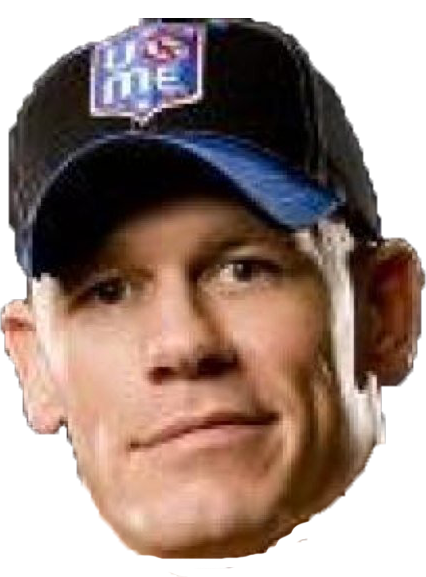
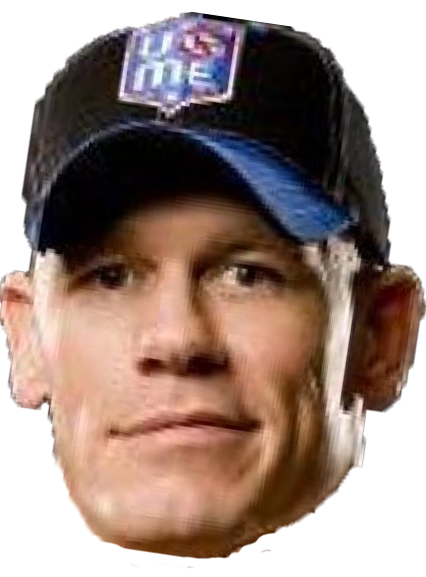
現在臉的scale可調

diff --git a/JohnCenaFaceSwap/Form1.cs b/JohnCenaFaceSwap/Form1.cs
@@ -11,9 +11,14 @@ namespace JohnCenaFaceSwap
     public partial class Form1 : Form
     {
         private Image<Bgr, Byte> Source_frame = null;   //呈現Load圖片的畫面
+        private Image<Bgr, Byte> Result_frame = null;
         //private Image<Bgr, Byte> Result_frame = null;  //最後呈現的畫面(RGB專用)
         private Image<Bgra, Byte> Cena = null;
         private Capture webCam = null;//擷取攝影機影像
+        private bool isCamOpen = false;
+        private Rectangle[] faces;
+        private Rectangle[] eyes;
+        private List<double> facesAngle;
         public Form1()
         {
             InitializeComponent();
@@ -22,12 +27,6 @@ namespace JohnCenaFaceSwap
             //webCam = new Capture();
             //Application.Idle += Application_Idle;
             //Source_frame = new Image<Bgr, byte>(Application.StartupPath + "..\\..\\..\\people.png");
-            if (openFileDialog.ShowDialog() == DialogResult.OK)
-            {
-                Source_frame = new Image<Bgr, byte>(openFileDialog.FileName);     //將圖片資訊存到Source_frame
-            }
-            SourceBox.Image = Source_frame.ToBitmap();
-            FaceDetection();
             //EyeDetection();
         }
 
@@ -40,12 +39,13 @@ namespace JohnCenaFaceSwap
 
         private void FaceDetection()
         {
-            Rectangle[] eyes = EyeDetection();
+            EyeDetection();
             CascadeClassifier cascadeClassifier = new CascadeClassifier(Application.StartupPath + "/haarcascade_frontalface_default.xml");//路徑不知對不對
             if (Source_frame != null)
             {
+                facesAngle = new List<double>();
                 var grayframe = Source_frame.Convert<Gray, byte>();
-                var faces = cascadeClassifier.DetectMultiScale(grayframe, 1.2, 3, Size.Empty, Size.Empty); //the actual face detection happens here
+                faces = cascadeClassifier.DetectMultiScale(grayframe, 1.2, 3, Size.Empty, Size.Empty); //the actual face detection happens here
                 foreach (var face in faces)
                 {
                     //Source_frame.Draw(face, new Bgr(Color.Red), 2);
@@ -66,52 +66,56 @@ namespace JohnCenaFaceSwap
                         Point eyeTwoCenter = new Point((int)((double)foundEye[1].X + 0.5 * (double)foundEye[1].Width), (int)((double)foundEye[1].Y + 0.5 * (double)foundEye[1].Height));
                         double length = Math.Pow(Math.Pow((double)(eyeOneCenter.X - eyeTwoCenter.X), 2) + Math.Pow((double)(eyeOneCenter.Y - eyeTwoCenter.Y), 2), 0.5);
                         double xLength = (double)(Math.Abs(eyeOneCenter.X - eyeTwoCenter.X));
-                        PasteImageToImage(ref Source_frame, Cena, face, ((Math.Acos(xLength / length) * 180) / Math.PI));
+                        //PasteImageToImage(ref Source_frame, Cena, face, ((Math.Acos(xLength / length) * 180) / Math.PI));
+                        facesAngle.Add(-(Math.Acos(xLength / length) * 180) / Math.PI);
                     }
                     else
                     {
-                        PasteImageToImage(ref Source_frame, Cena, face);
+                        //PasteImageToImage(ref Source_frame, Cena, face);
+                        facesAngle.Add(0);
                     }
                 }
             }
-            ResultBox.Image = Source_frame.ToBitmap();
+            DrawFaces();
         }
 
-        private Rectangle[] EyeDetection()
+        private void EyeDetection()
         {
             CascadeClassifier cascadeClassifier = new CascadeClassifier(Application.StartupPath + "/haarcascade_eye.xml");//路徑不知對不對
             if (Source_frame != null)
             {
                 var grayframe = Source_frame.Convert<Gray, byte>();
-                return cascadeClassifier.DetectMultiScale(grayframe, 1.1, 2, Size.Empty, Size.Empty); //the actual face detection happens here
+                eyes = cascadeClassifier.DetectMultiScale(grayframe, 1.1, 2, Size.Empty, Size.Empty); //the actual face detection happens here
                 //foreach (var eye in eyes)
                 //{
                 //    Source_frame.Draw(eye, new Bgr(Color.Blue), 2);
                 //}
             }
             //ResultBox.Image = Source_frame.ToBitmap();
-            return null;
         }
 
-        private void PasteImageToImage(ref Image<Bgr, byte> bigImg, Image<Bgra, byte> smallImg, Rectangle rect, double rotateAngle)
+        private void DrawFaces()
         {
-            //smallImg.Rotate(rotateAngle, new Bgra(0, 0, 0, 0));
-            PasteImageToImage(ref bigImg, smallImg.Rotate(rotateAngle, new Bgra(0, 0, 0, 0)), rect);
+            Result_frame = Source_frame.Clone();
+            for(int i = 0;i < faces.Length; i++)
+            {
+                PasteImageToImage(faces[i], facesAngle[i], (double)(ScaleBar.Value) / 10.0);
+                //MessageBox.Show(((double)(ScaleBar.Value) / 10.0).ToString());
+            }
+            ResultBox.Image = Result_frame.ToBitmap();
         }
 
-        private void PasteImageToImage(ref Image<Bgr,byte> bigImg, Image<Bgra, byte> smallImg, Rectangle rect)
+        private void PasteImageToImage(Rectangle rect, double rotateAngle, double scale)
         {
-            
-            const double SCALE = 2;  // John Scale John Scale John Scale John Scale John Scale
-            
-            int heightScale = smallImg.Width / rect.Width;
-            int tempImgWidth = (int)(rect.Width*SCALE);
-            int tempImgHeight = (int)(smallImg.Height / heightScale*SCALE);
+            int heightScale = Cena.Width / rect.Width;
+            int tempImgWidth = (int)(rect.Width * scale);
+            int tempImgHeight = (int)(Cena.Height / heightScale * scale);
 
             int xCenter = rect.X + rect.Width / 2 - rect.Width / 15;  // John Center John Center John Center 
             int yCenter = rect.Y + rect.Height / 2 - rect.Height / 8; // John Center John Center John Center 
 
-            Image<Bgra, Byte> temp = smallImg.Resize(tempImgWidth, tempImgHeight, Emgu.CV.CvEnum.INTER.CV_INTER_LINEAR);
+            Image<Bgra, Byte> temp = Cena.Resize(tempImgWidth, tempImgHeight, Emgu.CV.CvEnum.INTER.CV_INTER_LINEAR)
+                                         .Rotate(rotateAngle, new Bgra(0, 0, 0, 0));
 
             int x1 = 0;
             int y1 = 0;
@@ -124,15 +128,15 @@ namespace JohnCenaFaceSwap
             else
                 y1 = yCenter - tempImgHeight / 2;
 
-            for (int x = x1; (x < xCenter - tempImgWidth / 2 + tempImgWidth) && (x < bigImg.Width) && (x >= 0); x++)
+            for (int x = x1; (x < xCenter - tempImgWidth / 2 + tempImgWidth) && (x < Result_frame.Width) && (x >= 0); x++)
             {
-                for (int y = y1; (y < yCenter - tempImgHeight / 2 + tempImgHeight) && (y < bigImg.Height) && (y >= 0); y++)
+                for (int y = y1; (y < yCenter - tempImgHeight / 2 + tempImgHeight) && (y < Result_frame.Height) && (y >= 0); y++)
                 {                    
                     if (temp.Data[y - (yCenter - tempImgHeight / 2), x - (xCenter - tempImgWidth / 2), 3] != 0)
                     {
-                        bigImg.Data[y, x, 0] = temp.Data[y - (yCenter - tempImgHeight / 2), x - (xCenter - tempImgWidth / 2), 0];
-                        bigImg.Data[y, x, 1] = temp.Data[y - (yCenter - tempImgHeight / 2), x - (xCenter - tempImgWidth / 2), 1];
-                        bigImg.Data[y, x, 2] = temp.Data[y - (yCenter - tempImgHeight / 2), x - (xCenter - tempImgWidth / 2), 2];                      
+                        Result_frame.Data[y, x, 0] = temp.Data[y - (yCenter - tempImgHeight / 2), x - (xCenter - tempImgWidth / 2), 0];
+                        Result_frame.Data[y, x, 1] = temp.Data[y - (yCenter - tempImgHeight / 2), x - (xCenter - tempImgWidth / 2), 1];
+                        Result_frame.Data[y, x, 2] = temp.Data[y - (yCenter - tempImgHeight / 2), x - (xCenter - tempImgWidth / 2), 2];                      
                     }
                 }
             }
@@ -148,6 +152,26 @@ namespace JohnCenaFaceSwap
         {
             SourcePanel.VerticalScroll.Value = ResultPanel.VerticalScroll.Value;
             SourcePanel.HorizontalScroll.Value = ResultPanel.HorizontalScroll.Value;
+        }
+
+        private void LoadPicture_Click(object sender, EventArgs e)
+        {
+            if (openFileDialog.ShowDialog() == DialogResult.OK)
+            {
+                Source_frame = new Image<Bgr, byte>(openFileDialog.FileName);     //將圖片資訊存到Source_frame
+            }
+            SourceBox.Image = Source_frame.ToBitmap();
+            FaceDetection();
+        }
+
+        private void trackBar1_ValueChanged(object sender, EventArgs e)
+        {
+            DrawFaces();
+        }
+
+        private void OpenCamera_Click(object sender, EventArgs e)
+        {
+
         }
     }
 }

diff --git a/JohnCenaFaceSwap/Form1.Designer.cs b/JohnCenaFaceSwap/Form1.Designer.cs
@@ -33,16 +33,20 @@
             this.SourcePanel = new System.Windows.Forms.Panel();
             this.ResultPanel = new System.Windows.Forms.Panel();
             this.ResultBox = new System.Windows.Forms.PictureBox();
+            this.ScaleBar = new System.Windows.Forms.TrackBar();
+            this.label1 = new System.Windows.Forms.Label();
+            this.LoadPicture = new System.Windows.Forms.Button();
+            this.OpenCamera = new System.Windows.Forms.Button();
             ((System.ComponentModel.ISupportInitialize)(this.SourceBox)).BeginInit();
             this.SourcePanel.SuspendLayout();
             this.ResultPanel.SuspendLayout();
             ((System.ComponentModel.ISupportInitialize)(this.ResultBox)).BeginInit();
+            ((System.ComponentModel.ISupportInitialize)(this.ScaleBar)).BeginInit();
             this.SuspendLayout();
             // 
             // SourceBox
             // 
-            this.SourceBox.Location = new System.Drawing.Point(4, 4);
-            this.SourceBox.Margin = new System.Windows.Forms.Padding(4);
+            this.SourceBox.Location = new System.Drawing.Point(3, 3);
             this.SourceBox.Name = "SourceBox";
             this.SourceBox.Size = new System.Drawing.Size(197, 195);
             this.SourceBox.SizeMode = System.Windows.Forms.PictureBoxSizeMode.AutoSize;
@@ -57,9 +61,10 @@
             // 
             this.SourcePanel.AutoScroll = true;
             this.SourcePanel.Controls.Add(this.SourceBox);
-            this.SourcePanel.Location = new System.Drawing.Point(12, 12);
+            this.SourcePanel.Location = new System.Drawing.Point(8, 8);
+            this.SourcePanel.Margin = new System.Windows.Forms.Padding(2);
             this.SourcePanel.Name = "SourcePanel";
-            this.SourcePanel.Size = new System.Drawing.Size(632, 680);
+            this.SourcePanel.Size = new System.Drawing.Size(421, 453);
             this.SourcePanel.TabIndex = 2;
             this.SourcePanel.Scroll += new System.Windows.Forms.ScrollEventHandler(this.SourcePanel_Scroll);
             // 
@@ -67,30 +72,73 @@
             // 
             this.ResultPanel.AutoScroll = true;
             this.ResultPanel.Controls.Add(this.ResultBox);
-            this.ResultPanel.Location = new System.Drawing.Point(670, 12);
+            this.ResultPanel.Location = new System.Drawing.Point(447, 8);
+            this.ResultPanel.Margin = new System.Windows.Forms.Padding(2);
             this.ResultPanel.Name = "ResultPanel";
-            this.ResultPanel.Size = new System.Drawing.Size(632, 680);
+            this.ResultPanel.Size = new System.Drawing.Size(421, 453);
             this.ResultPanel.TabIndex = 3;
             this.ResultPanel.Scroll += new System.Windows.Forms.ScrollEventHandler(this.ResultPanel_Scroll);
             // 
             // ResultBox
             // 
-            this.ResultBox.Location = new System.Drawing.Point(4, 4);
-            this.ResultBox.Margin = new System.Windows.Forms.Padding(4);
+            this.ResultBox.Location = new System.Drawing.Point(3, 3);
             this.ResultBox.Name = "ResultBox";
             this.ResultBox.Size = new System.Drawing.Size(197, 195);
             this.ResultBox.SizeMode = System.Windows.Forms.PictureBoxSizeMode.AutoSize;
             this.ResultBox.TabIndex = 0;
             this.ResultBox.TabStop = false;
             // 
+            // ScaleBar
+            // 
+            this.ScaleBar.Location = new System.Drawing.Point(241, 466);
+            this.ScaleBar.Maximum = 30;
+            this.ScaleBar.Minimum = 1;
+            this.ScaleBar.Name = "ScaleBar";
+            this.ScaleBar.Size = new System.Drawing.Size(188, 45);
+            this.ScaleBar.TabIndex = 4;
+            this.ScaleBar.Value = 15;
+            this.ScaleBar.ValueChanged += new System.EventHandler(this.trackBar1_ValueChanged);
+            // 
+            // label1
+            // 
+            this.label1.AutoSize = true;
+            this.label1.Location = new System.Drawing.Point(194, 478);
+            this.label1.Name = "label1";
+            this.label1.Size = new System.Drawing.Size(29, 12);
+            this.label1.TabIndex = 5;
+            this.label1.Text = "Scale";
+            // 
+            // LoadPicture
+            // 
+            this.LoadPicture.Location = new System.Drawing.Point(8, 466);
+            this.LoadPicture.Name = "LoadPicture";
+            this.LoadPicture.Size = new System.Drawing.Size(75, 23);
+            this.LoadPicture.TabIndex = 6;
+            this.LoadPicture.Text = "讀取圖片";
+            this.LoadPicture.UseVisualStyleBackColor = true;
+            this.LoadPicture.Click += new System.EventHandler(this.LoadPicture_Click);
+            // 
+            // OpenCamera
+            // 
+            this.OpenCamera.Location = new System.Drawing.Point(89, 466);
+            this.OpenCamera.Name = "OpenCamera";
+            this.OpenCamera.Size = new System.Drawing.Size(75, 23);
+            this.OpenCamera.TabIndex = 7;
+            this.OpenCamera.Text = "開啟相機";
+            this.OpenCamera.UseVisualStyleBackColor = true;
+            this.OpenCamera.Click += new System.EventHandler(this.OpenCamera_Click);
+            // 
             // Form1
             // 
-            this.AutoScaleDimensions = new System.Drawing.SizeF(9F, 18F);
+            this.AutoScaleDimensions = new System.Drawing.SizeF(6F, 12F);
             this.AutoScaleMode = System.Windows.Forms.AutoScaleMode.Font;
-            this.ClientSize = new System.Drawing.Size(1390, 716);
+            this.ClientSize = new System.Drawing.Size(896, 508);
+            this.Controls.Add(this.OpenCamera);
+            this.Controls.Add(this.LoadPicture);
+            this.Controls.Add(this.label1);
+            this.Controls.Add(this.ScaleBar);
             this.Controls.Add(this.ResultPanel);
             this.Controls.Add(this.SourcePanel);
-            this.Margin = new System.Windows.Forms.Padding(4);
             this.Name = "Form1";
             this.Text = "Form1";
             ((System.ComponentModel.ISupportInitialize)(this.SourceBox)).EndInit();
@@ -99,7 +147,9 @@
             this.ResultPanel.ResumeLayout(false);
             this.ResultPanel.PerformLayout();
             ((System.ComponentModel.ISupportInitialize)(this.ResultBox)).EndInit();
+            ((System.ComponentModel.ISupportInitialize)(this.ScaleBar)).EndInit();
             this.ResumeLayout(false);
+            this.PerformLayout();
 
         }
 
@@ -110,6 +160,10 @@
         private System.Windows.Forms.Panel SourcePanel;
         private System.Windows.Forms.Panel ResultPanel;
         private System.Windows.Forms.PictureBox ResultBox;
+        private System.Windows.Forms.TrackBar ScaleBar;
+        private System.Windows.Forms.Label label1;
+        private System.Windows.Forms.Button LoadPicture;
+        private System.Windows.Forms.Button OpenCamera;
     }
 }
 
